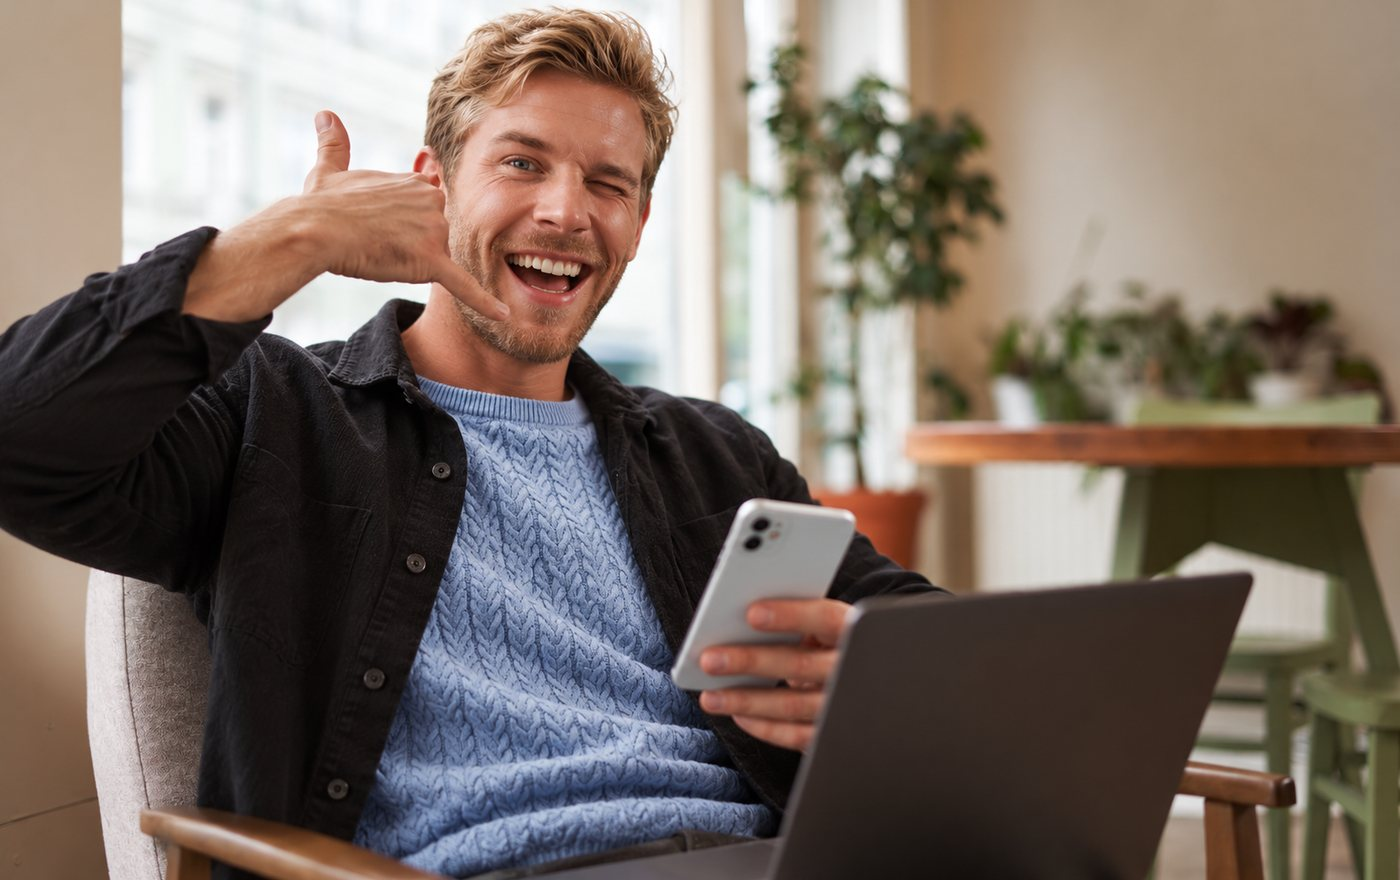
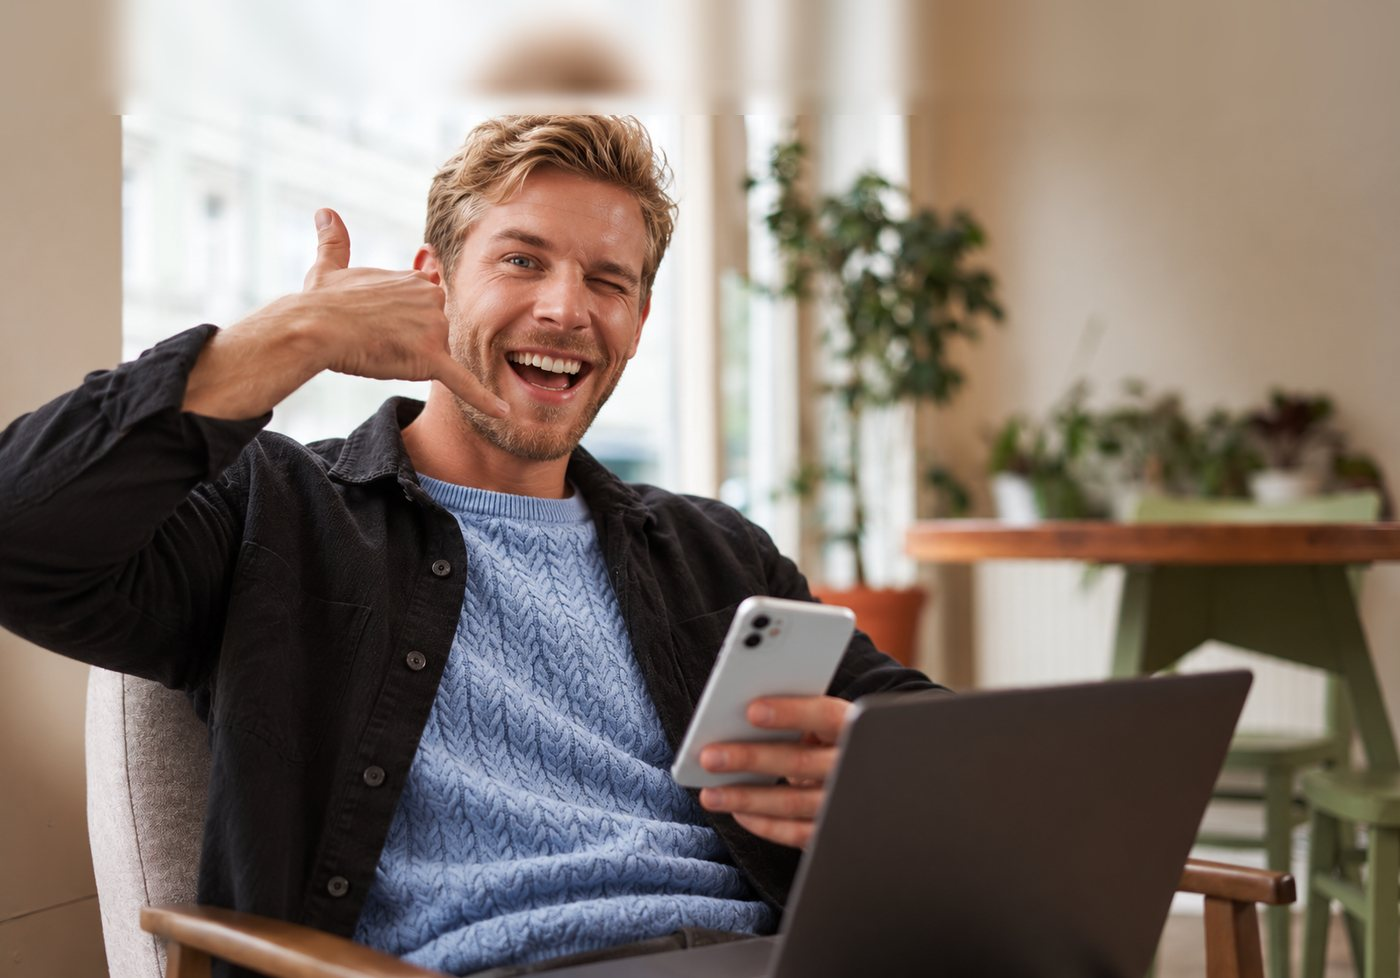
Vorschau: Kopf im Website-Bild vollständig
Claude-Session: https://claude.ai/code/session_01Rcq5DRaFEmwxCxX1zurG25

diff --git a/index.html b/index.html
@@ -1152,7 +1152,7 @@ form .btn{justify-content:center;margin-top:6px}
         <h2>Alles aus einer Hand.</h2>
       </div>
       <div class="svc-grid">
-        <div class="svc wide"><div class="svc-img"><img src="assets/biz-web-v3.jpg" alt="Selbstständiger freut sich über neue Anfragen über seine Website"><div class="web-ui" aria-hidden="true"><div class="wu-win"><div class="wu-bar"><i></i><i></i><i></i><span class="wu-url"><svg viewBox="0 0 24 24" width="9" height="9" fill="none" stroke="currentColor" stroke-width="2.4"><rect x="5" y="11" width="14" height="10" rx="2"/><path d="M8 11V7a4 4 0 0 1 8 0v4"/></svg>ihr-betrieb.de</span></div><div class="wu-body"><b class="wu-h"></b><b class="wu-h s"></b><span class="wu-btn">Anfrage senden</span></div></div><div class="wu-ping"><i></i>Neue Anfrage <em>+1</em></div></div><svg class="svc-bolt" viewBox="0 0 200 120" preserveAspectRatio="none" aria-hidden="true"><path d="M150 0 L118 46 L132 50 L96 120"/></svg></div><span class="ic"><svg width="22" height="22" viewBox="0 0 24 24" fill="none" stroke="currentColor" stroke-width="1.8"><rect x="3" y="4" width="18" height="14" rx="2"/><path d="M3 9h18M8 21h8"/></svg></span><h3>Websites &amp; Funnels</h3><p>Seiten, die nicht nur gut aussehen, sondern Anfragen bringen.</p></div>
+        <div class="svc wide"><div class="svc-img"><img src="assets/biz-web-v3.jpg" style="object-position:50% 9%" alt="Selbstständiger freut sich über neue Anfragen über seine Website"><div class="web-ui" aria-hidden="true"><div class="wu-win"><div class="wu-bar"><i></i><i></i><i></i><span class="wu-url"><svg viewBox="0 0 24 24" width="9" height="9" fill="none" stroke="currentColor" stroke-width="2.4"><rect x="5" y="11" width="14" height="10" rx="2"/><path d="M8 11V7a4 4 0 0 1 8 0v4"/></svg>ihr-betrieb.de</span></div><div class="wu-body"><b class="wu-h"></b><b class="wu-h s"></b><span class="wu-btn">Anfrage senden</span></div></div><div class="wu-ping"><i></i>Neue Anfrage <em>+1</em></div></div><svg class="svc-bolt" viewBox="0 0 200 120" preserveAspectRatio="none" aria-hidden="true"><path d="M150 0 L118 46 L132 50 L96 120"/></svg></div><span class="ic"><svg width="22" height="22" viewBox="0 0 24 24" fill="none" stroke="currentColor" stroke-width="1.8"><rect x="3" y="4" width="18" height="14" rx="2"/><path d="M3 9h18M8 21h8"/></svg></span><h3>Websites &amp; Funnels</h3><p>Seiten, die nicht nur gut aussehen, sondern Anfragen bringen.</p></div>
         <div class="svc"><div class="svc-img"><img src="assets/0b63b80ada98.jpg" alt="Kampagnen und Leads"><div class="camp-ui" aria-hidden="true">
 <div class="cu-chips"><span class="cu-chip"><i class="d d1"></i>Meta</span><span class="cu-chip"><i class="d d2"></i>TikTok</span><span class="cu-chip"><i class="d d3"></i>Google Ads</span></div>
 <div class="cu-chart"><span class="cu-l">Anfragen</span><svg viewBox="0 0 120 50"><path class="cu-area" d="M2 46 L20 42 L38 43 L56 32 L74 34 L92 18 L118 4 L118 50 L2 50Z"/><path class="cu-line" d="M2 46 L20 42 L38 43 L56 32 L74 34 L92 18 L118 4"/></svg></div>
